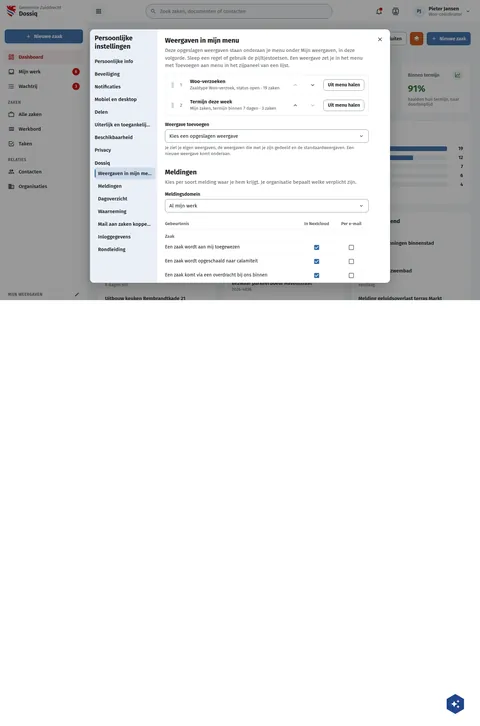
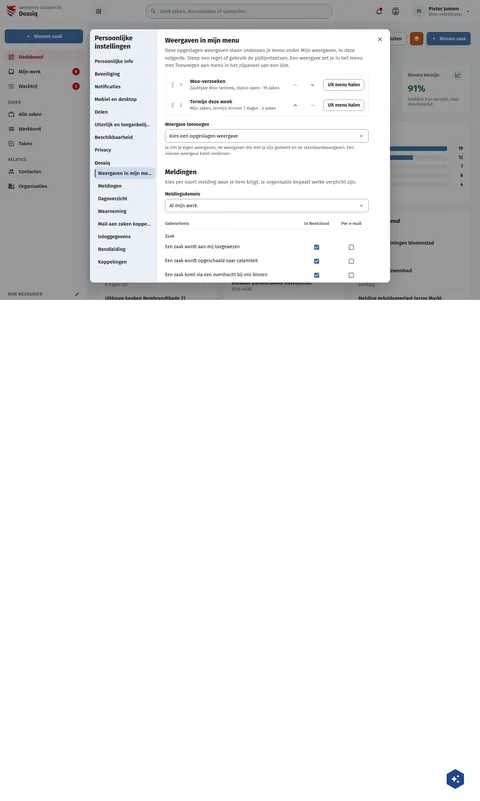
fix(screens): DqPersoonlijkeInstellingen draws the Koppelingen section live has (#651)
Probed after REFRESH-8d: CnAppRoot adds a 'Koppelingen' section (the manifest's links into other apps) last in the navigation; the board had no such entry, so live read 'extra'. Users keep features, so the board draws it: NcAppInstellingen gains a links row (tertiary links with the open-in-new icon, 2px apart). Rebuilt with build.py.

Assisted-by: ClaudeCode:claude-opus-5-5

diff --git a/preview/screens/boards/DqPersoonlijkeInstellingen.html b/preview/screens/boards/DqPersoonlijkeInstellingen.html
@@ -203,6 +203,8 @@ a{color:var(--sc-primary, #3669a5)}a:hover{color:var(--sc-primary-deep, #234a78)
     
       <a href="#" aria-current="false" style="position: relative; display: flex; align-items: center; height: 36px; padding: 0 10px; border-radius: 8px; text-decoration: none; font-size: 15px; font-weight: 500; color: var(--sc-work-ink, #1b1c1d); white-space: nowrap; "><span style="display: none" aria-hidden="true"></span><span style="overflow: hidden; text-overflow: ellipsis">Rondleiding</span></a>
     
+      <a href="#" aria-current="false" style="position: relative; display: flex; align-items: center; height: 36px; padding: 0 10px; border-radius: 8px; text-decoration: none; font-size: 15px; font-weight: 500; color: var(--sc-work-ink, #1b1c1d); white-space: nowrap; "><span style="display: none" aria-hidden="true"></span><span style="overflow: hidden; text-overflow: ellipsis">Koppelingen</span></a>
+    
     </div>
   </nav>
   <div style="flex: 1 1 auto; min-width: 0; box-sizing: border-box; background: #ffffff; border-left: 1px solid var(--sc-work-line, #e4e6ea); border-radius: 8px 0 0 8px; padding: 20px 64px 20px 24px; overflow: hidden; display: flex; flex-direction: column; gap: 32px">
@@ -226,11 +228,13 @@ a{color:var(--sc-primary, #3669a5)}a:hover{color:var(--sc-primary-deep, #234a78)
             
             
             
+            
           
             
             
             
               <div style="display: flex; flex-direction: column; gap: 6px"><span style="font-size: 14px; font-weight: 600">Weergave toevoegen</span><div role="combobox" aria-expanded="false" aria-disabled="False" aria-label="Weergave toevoegen" style="display: flex; align-items: center; justify-content: space-between; gap: 8px; height: 40px; box-sizing: border-box; padding: 0 12px; border: 1px solid var(--sc-work-field, #828a95); border-radius: 8px; background: #ffffff; font-size: 15px"><span style="overflow: hidden; text-overflow: ellipsis; white-space: nowrap">Kies een opgeslagen weergave</span><svg width="18" height="18" viewbox="0 0 24 24" fill="#3d4047" aria-hidden="true" style="flex: none;fill:var(--sc-work-text, #3d4047)"><path d="M7.41,8.58L12,13.17L16.59,8.58L18,10L12,16L6,10L7.41,8.58Z"></path></svg></div><span style="font-size: 13px; color: var(--sc-work-muted, #5e6168); line-height: 1.45">Je ziet je eigen weergaven, de weergaven die met je zijn gedeeld en de standaardweergaven. Een nieuwe weergave komt onderaan.</span></div>
+            
             
             
             
@@ -264,6 +268,7 @@ a{color:var(--sc-primary, #3669a5)}a:hover{color:var(--sc-primary-deep, #234a78)
             
             
             
+            
           
             
             
@@ -274,6 +279,7 @@ a{color:var(--sc-primary, #3669a5)}a:hover{color:var(--sc-primary-deep, #234a78)
             
             
               <table style="width: 100%; border-collapse: collapse; font-size: 14px"><thead><tr><th scope="col" style="text-align: left; padding: 8px 10px 8px 0; font-size: 13px; font-weight: 600; color: var(--sc-work-muted, #5e6168); border-bottom: 1px solid var(--sc-work-line, #e4e6ea)">Gebeurtenis</th><th scope="col" style="width: 96px; padding: 8px 4px; font-size: 13px; font-weight: 600; color: var(--sc-work-muted, #5e6168); text-align: center; border-bottom: 1px solid var(--sc-work-line, #e4e6ea)">In Nextcloud</th><th scope="col" style="width: 96px; padding: 8px 4px; font-size: 13px; font-weight: 600; color: var(--sc-work-muted, #5e6168); text-align: center; border-bottom: 1px solid var(--sc-work-line, #e4e6ea)">Per e-mail</th></tr></thead><tbody><tr><th colspan="3" scope="colgroup" style="padding: 14px 0 4px; border-bottom: 1px solid var(--sc-work-soft, #eef0f3); text-align: left; font-size: 13px; font-weight: 600; color: var(--sc-work-muted, #5e6168)">Zaak</th></tr><tr><td style="padding: 10px 10px 10px 0; border-bottom: 1px solid var(--sc-work-soft, #eef0f3); line-height: 1.4">Een zaak wordt aan mij toegewezen</td><td style="padding: 10px 4px; border-bottom: 1px solid var(--sc-work-soft, #eef0f3); text-align: center"><span role="checkbox" aria-checked="True" aria-label="Een zaak wordt aan mij toegewezen, In Nextcloud" style="display: inline-flex; vertical-align: middle; margin-top: 1px"><svg width="20" height="20" viewbox="0 0 24 24" fill="#3669a5" aria-hidden="true" style="fill:var(--sc-primary, #3669a5)"><path d="M10,17L5,12L6.41,10.58L10,14.17L17.59,6.58L19,8M19,3H5C3.89,3 3,3.89 3,5V19A2,2 0 0,0 5,21H19A2,2 0 0,0 21,19V5C21,3.89 20.1,3 19,3Z"></path></svg></span></td><td style="padding: 10px 4px; border-bottom: 1px solid var(--sc-work-soft, #eef0f3); text-align: center"><span role="checkbox" aria-checked="False" aria-label="Een zaak wordt aan mij toegewezen, Per e-mail" style="display: inline-flex; vertical-align: middle; margin-top: 1px"><svg width="20" height="20" viewbox="0 0 24 24" fill="#5e6168" aria-hidden="true" style="fill:var(--sc-work-muted, #5e6168)"><path d="M19,3H5C3.89,3 3,3.89 3,5V19A2,2 0 0,0 5,21H19A2,2 0 0,0 21,19V5C21,3.89 20.1,3 19,3M19,5V19H5V5H19Z"></path></svg></span></td></tr><tr><td style="padding: 10px 10px 10px 0; border-bottom: 1px solid var(--sc-work-soft, #eef0f3); line-height: 1.4">Een zaak wordt opgeschaald naar calamiteit</td><td style="padding: 10px 4px; border-bottom: 1px solid var(--sc-work-soft, #eef0f3); text-align: center"><span role="checkbox" aria-checked="True" aria-label="Een zaak wordt opgeschaald naar calamiteit, In Nextcloud" style="display: inline-flex; vertical-align: middle; margin-top: 1px"><svg width="20" height="20" viewbox="0 0 24 24" fill="#3669a5" aria-hidden="true" style="fill:var(--sc-primary, #3669a5)"><path d="M10,17L5,12L6.41,10.58L10,14.17L17.59,6.58L19,8M19,3H5C3.89,3 3,3.89 3,5V19A2,2 0 0,0 5,21H19A2,2 0 0,0 21,19V5C21,3.89 20.1,3 19,3Z"></path></svg></span></td><td style="padding: 10px 4px; border-bottom: 1px solid var(--sc-work-soft, #eef0f3); text-align: center"><span role="checkbox" aria-checked="False" aria-label="Een zaak wordt opgeschaald naar calamiteit, Per e-mail" style="display: inline-flex; vertical-align: middle; margin-top: 1px"><svg width="20" height="20" viewbox="0 0 24 24" fill="#5e6168" aria-hidden="true" style="fill:var(--sc-work-muted, #5e6168)"><path d="M19,3H5C3.89,3 3,3.89 3,5V19A2,2 0 0,0 5,21H19A2,2 0 0,0 21,19V5C21,3.89 20.1,3 19,3M19,5V19H5V5H19Z"></path></svg></span></td></tr><tr><td style="padding: 10px 10px 10px 0; border-bottom: 1px solid var(--sc-work-soft, #eef0f3); line-height: 1.4">Een zaak komt via een overdracht bij ons binnen</td><td style="padding: 10px 4px; border-bottom: 1px solid var(--sc-work-soft, #eef0f3); text-align: center"><span role="checkbox" aria-checked="True" aria-label="Een zaak komt via een overdracht bij ons binnen, In Nextcloud" style="display: inline-flex; vertical-align: middle; margin-top: 1px"><svg width="20" height="20" viewbox="0 0 24 24" fill="#3669a5" aria-hidden="true" style="fill:var(--sc-primary, #3669a5)"><path d="M10,17L5,12L6.41,10.58L10,14.17L17.59,6.58L19,8M19,3H5C3.89,3 3,3.89 3,5V19A2,2 0 0,0 5,21H19A2,2 0 0,0 21,19V5C21,3.89 20.1,3 19,3Z"></path></svg></span></td><td style="padding: 10px 4px; border-bottom: 1px solid var(--sc-work-soft, #eef0f3); text-align: center"><span role="checkbox" aria-checked="False" aria-label="Een zaak komt via een overdracht bij ons binnen, Per e-mail" style="display: inline-flex; vertical-align: middle; margin-top: 1px"><svg width="20" height="20" viewbox="0 0 24 24" fill="#5e6168" aria-hidden="true" style="fill:var(--sc-work-muted, #5e6168)"><path d="M19,3H5C3.89,3 3,3.89 3,5V19A2,2 0 0,0 5,21H19A2,2 0 0,0 21,19V5C21,3.89 20.1,3 19,3M19,5V19H5V5H19Z"></path></svg></span></td></tr><tr><td style="padding: 10px 10px 10px 0; border-bottom: 1px solid var(--sc-work-soft, #eef0f3); line-height: 1.4">Een zaak die ik volg verandert van status</td><td style="padding: 10px 4px; border-bottom: 1px solid var(--sc-work-soft, #eef0f3); text-align: center"><span role="checkbox" aria-checked="True" aria-label="Een zaak die ik volg verandert van status, In Nextcloud" style="display: inline-flex; vertical-align: middle; margin-top: 1px"><svg width="20" height="20" viewbox="0 0 24 24" fill="#3669a5" aria-hidden="true" style="fill:var(--sc-primary, #3669a5)"><path d="M10,17L5,12L6.41,10.58L10,14.17L17.59,6.58L19,8M19,3H5C3.89,3 3,3.89 3,5V19A2,2 0 0,0 5,21H19A2,2 0 0,0 21,19V5C21,3.89 20.1,3 19,3Z"></path></svg></span></td><td style="padding: 10px 4px; border-bottom: 1px solid var(--sc-work-soft, #eef0f3); text-align: center"><span role="checkbox" aria-checked="False" aria-label="Een zaak die ik volg verandert van status, Per e-mail" style="display: inline-flex; vertical-align: middle; margin-top: 1px"><svg width="20" height="20" viewbox="0 0 24 24" fill="#5e6168" aria-hidden="true" style="fill:var(--sc-work-muted, #5e6168)"><path d="M19,3H5C3.89,3 3,3.89 3,5V19A2,2 0 0,0 5,21H19A2,2 0 0,0 21,19V5C21,3.89 20.1,3 19,3M19,5V19H5V5H19Z"></path></svg></span></td></tr><tr><th colspan="3" scope="colgroup" style="padding: 14px 0 4px; border-bottom: 1px solid var(--sc-work-soft, #eef0f3); text-align: left; font-size: 13px; font-weight: 600; color: var(--sc-work-muted, #5e6168)">Vervanging</th></tr><tr><td style="padding: 10px 10px 10px 0; border-bottom: 1px solid var(--sc-work-soft, #eef0f3); line-height: 1.4">Ik word als waarnemer voor iemand geregistreerd</td><td style="padding: 10px 4px; border-bottom: 1px solid var(--sc-work-soft, #eef0f3); text-align: center"><span role="checkbox" aria-checked="True" aria-label="Ik word als waarnemer voor iemand geregistreerd, In Nextcloud" style="display: inline-flex; vertical-align: middle; margin-top: 1px"><svg width="20" height="20" viewbox="0 0 24 24" fill="#3669a5" aria-hidden="true" style="fill:var(--sc-primary, #3669a5)"><path d="M10,17L5,12L6.41,10.58L10,14.17L17.59,6.58L19,8M19,3H5C3.89,3 3,3.89 3,5V19A2,2 0 0,0 5,21H19A2,2 0 0,0 21,19V5C21,3.89 20.1,3 19,3Z"></path></svg></span></td><td style="padding: 10px 4px; border-bottom: 1px solid var(--sc-work-soft, #eef0f3); text-align: center"><span role="checkbox" aria-checked="False" aria-label="Ik word als waarnemer voor iemand geregistreerd, Per e-mail" style="display: inline-flex; vertical-align: middle; margin-top: 1px"><svg width="20" height="20" viewbox="0 0 24 24" fill="#5e6168" aria-hidden="true" style="fill:var(--sc-work-muted, #5e6168)"><path d="M19,3H5C3.89,3 3,3.89 3,5V19A2,2 0 0,0 5,21H19A2,2 0 0,0 21,19V5C21,3.89 20.1,3 19,3M19,5V19H5V5H19Z"></path></svg></span></td></tr><tr><th colspan="3" scope="colgroup" style="padding: 14px 0 4px; border-bottom: 1px solid var(--sc-work-soft, #eef0f3); text-align: left; font-size: 13px; font-weight: 600; color: var(--sc-work-muted, #5e6168)">Werkoverzicht</th></tr><tr><td style="padding: 10px 10px 10px 0; border-bottom: 1px solid var(--sc-work-soft, #eef0f3); line-height: 1.4">Mijn dagelijkse werkoverzicht</td><td style="padding: 10px 4px; border-bottom: 1px solid var(--sc-work-soft, #eef0f3); text-align: center"><span role="checkbox" aria-checked="True" aria-label="Mijn dagelijkse werkoverzicht, In Nextcloud" style="display: inline-flex; vertical-align: middle; margin-top: 1px"><svg width="20" height="20" viewbox="0 0 24 24" fill="#3669a5" aria-hidden="true" style="fill:var(--sc-primary, #3669a5)"><path d="M10,17L5,12L6.41,10.58L10,14.17L17.59,6.58L19,8M19,3H5C3.89,3 3,3.89 3,5V19A2,2 0 0,0 5,21H19A2,2 0 0,0 21,19V5C21,3.89 20.1,3 19,3Z"></path></svg></span></td><td style="padding: 10px 4px; border-bottom: 1px solid var(--sc-work-soft, #eef0f3); text-align: center"><span role="checkbox" aria-checked="False" aria-label="Mijn dagelijkse werkoverzicht, Per e-mail" style="display: inline-flex; vertical-align: middle; margin-top: 1px"><svg width="20" height="20" viewbox="0 0 24 24" fill="#5e6168" aria-hidden="true" style="fill:var(--sc-work-muted, #5e6168)"><path d="M19,3H5C3.89,3 3,3.89 3,5V19A2,2 0 0,0 5,21H19A2,2 0 0,0 21,19V5C21,3.89 20.1,3 19,3M19,5V19H5V5H19Z"></path></svg></span></td></tr></tbody></table>
+            
             
             
             
@@ -291,6 +297,7 @@ a{color:var(--sc-primary, #3669a5)}a:hover{color:var(--sc-primary-deep, #234a78)
             
             
               <button type="button" aria-expanded="false" style="display: inline-flex; align-items: center; gap: 6px; align-self: flex-start; padding: 0; border: 0; background: transparent; font: 600 14px var(--sc-font, 'Fira Sans'), sans-serif; color: var(--sc-work-ink, #1b1c1d); cursor: pointer"><svg width="16" height="16" viewbox="0 0 24 24" fill="currentColor" aria-hidden="true"><path d="M8.59,16.58L13.17,12L8.59,7.41L10,6L16,12L10,18L8.59,16.58Z"></path></svg>Bundeling en testbericht</button>
+            
             
             
             
@@ -317,11 +324,13 @@ a{color:var(--sc-primary, #3669a5)}a:hover{color:var(--sc-primary-deep, #234a78)
             
             
             
+            
           
             
             
             
               <div style="display: flex; flex-direction: column; gap: 6px"><span style="font-size: 14px; font-weight: 600">Uur van de dag</span><div role="combobox" aria-expanded="false" aria-disabled="False" aria-label="Uur van de dag" style="display: flex; align-items: center; justify-content: space-between; gap: 8px; height: 40px; box-sizing: border-box; padding: 0 12px; border: 1px solid var(--sc-work-field, #828a95); border-radius: 8px; background: #ffffff; font-size: 15px"><span style="overflow: hidden; text-overflow: ellipsis; white-space: nowrap">08.00 uur</span><svg width="18" height="18" viewbox="0 0 24 24" fill="#3d4047" aria-hidden="true" style="flex: none;fill:var(--sc-work-text, #3d4047)"><path d="M7.41,8.58L12,13.17L16.59,8.58L18,10L12,16L6,10L7.41,8.58Z"></path></svg></div></div>
+            
             
             
             
@@ -355,6 +364,7 @@ a{color:var(--sc-primary, #3669a5)}a:hover{color:var(--sc-primary-deep, #234a78)
             
             
             
+            
           
             
             
@@ -369,6 +379,7 @@ a{color:var(--sc-primary, #3669a5)}a:hover{color:var(--sc-primary-deep, #234a78)
             
             
               <div style="display: flex; flex-wrap: wrap; gap: 10px"><button type="button" style="display: inline-flex; align-items: center; height: 40px; box-sizing: border-box; padding: 0 16px; border-radius: 8px; font: 600 14px var(--sc-font, 'Fira Sans'), sans-serif; white-space: nowrap; border: 1px solid var(--sc-work-field, #828a95); background: #ffffff; color: var(--sc-work-ink, #1b1c1d)">Waarneming registreren</button></div>
+            
             
           
         </div>
@@ -393,9 +404,11 @@ a{color:var(--sc-primary, #3669a5)}a:hover{color:var(--sc-primary-deep, #234a78)
             
             
             
+            
           
             
               <label style="min-height: 36px; display: flex; gap: 12px; align-items: flex-start"><input type="checkbox" role="switch" checked style="position: absolute; opacity: 0; width: 1px; height: 1px"><span aria-hidden="true" style="flex: none; display: inline-flex; align-items: center; width: 38px; height: 22px; border-radius: 11px; margin-top: 1px; background: var(--sc-primary, #3669a5); justify-content: flex-end"><span style="width: 18px; height: 18px; border-radius: 9px; background: #ffffff; margin: 0 2px"></span></span><span style="display: flex; flex-direction: column; gap: 2px"><span style="font-size: 15px; font-weight: 500">Mail van dit account aan mijn zaken koppelen</span><span style="font-size: 13px; color: var(--sc-work-muted, #5e6168); line-height: 1.45">Op zaaknummer in het onderwerp. De mail blijft in Nextcloud Mail.</span></span></label>
+            
             
             
             
@@ -431,6 +444,7 @@ a{color:var(--sc-primary, #3669a5)}a:hover{color:var(--sc-primary-deep, #234a78)
             
             
             
+            
           
             
             
@@ -445,6 +459,7 @@ a{color:var(--sc-primary, #3669a5)}a:hover{color:var(--sc-primary-deep, #234a78)
             
             
               <div style="display: flex; flex-wrap: wrap; gap: 10px"><button type="button" style="display: inline-flex; align-items: center; height: 40px; box-sizing: border-box; padding: 0 16px; border-radius: 8px; font: 600 14px var(--sc-font, 'Fira Sans'), sans-serif; white-space: nowrap; border: 1px solid var(--sc-work-field, #828a95); background: #ffffff; color: var(--sc-work-ink, #1b1c1d)">Inloggegevens toevoegen</button></div>
+            
             
           
         </div>
@@ -468,6 +483,31 @@ a{color:var(--sc-primary, #3669a5)}a:hover{color:var(--sc-primary-deep, #234a78)
             
             
               <div style="display: flex; flex-wrap: wrap; gap: 10px"><button type="button" style="display: inline-flex; align-items: center; height: 40px; box-sizing: border-box; padding: 0 16px; border-radius: 8px; font: 600 14px var(--sc-font, 'Fira Sans'), sans-serif; white-space: nowrap; border: 0; background: var(--sc-primary, #3669a5); color: #ffffff">Verder met de rondleiding</button><button type="button" style="display: inline-flex; align-items: center; height: 40px; box-sizing: border-box; padding: 0 16px; border-radius: 8px; font: 600 14px var(--sc-font, 'Fira Sans'), sans-serif; white-space: nowrap; border: 1px solid var(--sc-work-field, #828a95); background: #ffffff; color: var(--sc-work-ink, #1b1c1d)">Opnieuw beginnen</button></div>
+            
+            
+          
+        </div>
+      </section>
+    
+      <section aria-labelledby="nai-s7" style="display: flex; flex-direction: column; gap: 6px">
+        <h3 id="nai-s7" style="margin: 0; font-size: 20px; font-weight: 700; line-height: 1.3">Koppelingen</h3>
+        <p style="margin: 0; font-size: 15px; color: var(--sc-work-muted, #5e6168); line-height: 1.5">Deze openen in een andere app.</p>
+        <div style="display: flex; flex-direction: column; gap: 18px; margin-top: 10px">
+          
+            
+            
+            
+            
+            
+            
+            
+            
+            
+            
+            
+            
+            
+              <ul style="list-style: none; margin: 0; padding: 0; display: flex; flex-direction: column; align-items: flex-start; gap: 2px"><li><a href="#" style="display: inline-flex; align-items: center; gap: 4px; height: 40px; box-sizing: border-box; padding: 0 16px 0 10px; border-radius: 8px; font: 600 15px var(--sc-font, 'Fira Sans'), sans-serif; color: var(--sc-work-ink, #1b1c1d); text-decoration: none"><svg width="20" height="20" viewbox="0 0 24 24" fill="currentColor" aria-hidden="true"><path d="M14,3V5H17.59L7.76,14.83L9.17,16.24L19,6.41V10H21V3M19,19H5V5H12V3H5C3.89,3 3,3.9 3,5V19A2,2 0 0,0 5,21H19A2,2 0 0,0 21,19V12H19V19Z"></path></svg>Verwerkingsactiviteiten (AVG)</a></li><li><a href="#" style="display: inline-flex; align-items: center; gap: 4px; height: 40px; box-sizing: border-box; padding: 0 16px 0 10px; border-radius: 8px; font: 600 15px var(--sc-font, 'Fira Sans'), sans-serif; color: var(--sc-work-ink, #1b1c1d); text-decoration: none"><svg width="20" height="20" viewbox="0 0 24 24" fill="currentColor" aria-hidden="true"><path d="M14,3V5H17.59L7.76,14.83L9.17,16.24L19,6.41V10H21V3M19,19H5V5H12V3H5C3.89,3 3,3.9 3,5V19A2,2 0 0,0 5,21H19A2,2 0 0,0 21,19V12H19V19Z"></path></svg>AI-toezicht</a></li><li><a href="#" style="display: inline-flex; align-items: center; gap: 4px; height: 40px; box-sizing: border-box; padding: 0 16px 0 10px; border-radius: 8px; font: 600 15px var(--sc-font, 'Fira Sans'), sans-serif; color: var(--sc-work-ink, #1b1c1d); text-decoration: none"><svg width="20" height="20" viewbox="0 0 24 24" fill="currentColor" aria-hidden="true"><path d="M14,3V5H17.59L7.76,14.83L9.17,16.24L19,6.41V10H21V3M19,19H5V5H12V3H5C3.89,3 3,3.9 3,5V19A2,2 0 0,0 5,21H19A2,2 0 0,0 21,19V12H19V19Z"></path></svg>Datamodel</a></li></ul>
             
           
         </div>

diff --git a/screens-src/zuiddrecht/NcAppInstellingen.dc.html b/screens-src/zuiddrecht/NcAppInstellingen.dc.html
@@ -69,6 +69,9 @@ body{margin:0}
             <sc-if value="{{ r.isButtons }}">
               <div style="display: flex; flex-wrap: wrap; gap: 10px"><sc-for list="{{ r.buttons }}" as="b" hint-placeholder-count="1"><button type="button" style="{{ b.style }}">{{ b.label }}</button></sc-for></div>
             </sc-if>
+            <sc-if value="{{ r.isLinks }}">
+              <ul style="list-style: none; margin: 0; padding: 0; display: flex; flex-direction: column; align-items: flex-start; gap: 2px"><sc-for list="{{ r.links }}" as="l" hint-placeholder-count="2"><li><a href="#" style="display: inline-flex; align-items: center; gap: 4px; height: 40px; box-sizing: border-box; padding: 0 16px 0 10px; border-radius: 8px; font: 600 15px 'Fira Sans', sans-serif; color: #1b1c1d; text-decoration: none"><svg width="20" height="20" viewBox="0 0 24 24" fill="currentColor" aria-hidden="true"><path d="M14,3V5H17.59L7.76,14.83L9.17,16.24L19,6.41V10H21V3M19,19H5V5H12V3H5C3.89,3 3,3.9 3,5V19A2,2 0 0,0 5,21H19A2,2 0 0,0 21,19V12H19V19Z"></path></svg>{{ l.label }}</a></li></sc-for></ul>
+            </sc-if>
           </sc-for>
         </div>
       </section>
@@ -114,7 +117,7 @@ class Component extends DCLogic {
     const note = (tone) => 'margin: 0; padding: 10px 12px; border-radius: 8px; font-size: 14px; line-height: 1.5; ' +
       (tone === 'warn' ? 'background: #fff4e5; color: #1b1c1d' : tone === 'plain' ? 'padding: 0; color: #5e6168' : 'background: #eaf0f7; color: #1b1c1d');
     const arrow = (off) => 'flex: none; display: inline-flex; align-items: center; justify-content: center; width: 40px; height: 40px; border: 0; border-radius: 8px; background: transparent; padding: 0;' + (off ? ' opacity: 0.4' : '');
-    const blank = { isSwitch: false, isCheck: false, isSelect: false, isText: false, isPair: false, isRadios: false, isItems: false, isMatrix: false, isFacts: false, isNote: false, isDisclosure: false, isButtons: false };
+    const blank = { isSwitch: false, isCheck: false, isSelect: false, isText: false, isPair: false, isRadios: false, isItems: false, isMatrix: false, isFacts: false, isNote: false, isDisclosure: false, isButtons: false, isLinks: false };
     let n = 0;
     const row = (r) => {
       const hint = r.hint || '';
@@ -134,6 +137,8 @@ class Component extends DCLogic {
       if ('disclosure' in r) return { ...blank, isDisclosure: true, text: r.disclosure };
       if ('note' in r) return { ...blank, isNote: true, text: r.note, noteStyle: note(r.tone) };
       if ('buttons' in r) return { ...blank, isButtons: true, buttons: r.buttons.map(([label, kind]) => ({ label, style: btn(kind) })) };
+      // links: a column of tertiary links to other apps, each with the open-in-new icon (CnAppRoot's "Koppelingen").
+      if ('links' in r) return { ...blank, isLinks: true, links: r.links.map((label) => ({ label })) };
       return blank;
     };
     const shown = raw.slice(at).map((s, i) => ({ id: 'nai-s' + (at + i), name: s.name, desc: s.desc || '', hasDesc: !!s.desc, rows: (s.rows || []).map(row) }));

diff --git a/screens-src/zuiddrecht/DqPersoonlijkeInstellingen.dc.html b/screens-src/zuiddrecht/DqPersoonlijkeInstellingen.dc.html
@@ -70,6 +70,10 @@ class Component extends DCLogic {
       ] },
       { name: 'Rondleiding', desc: 'Je bent bij stap 4 van 9: een zaak afsluiten.', rows: [
         { buttons: [['Verder met de rondleiding', 'primary'], ['Opnieuw beginnen', '']] }
+      ] },
+      // CnAppRoot's integrations section: the manifest's links into other apps.
+      { name: 'Koppelingen', desc: 'Deze openen in een andere app.', rows: [
+        { links: ['Verwerkingsactiviteiten (AVG)', 'AI-toezicht', 'Datamodel'] }
       ] }
     ];
     // Nextcloud's own personal settings, linked above Dossiq's entry (dossiq App.vue userSettingsNextcloudLinks).
